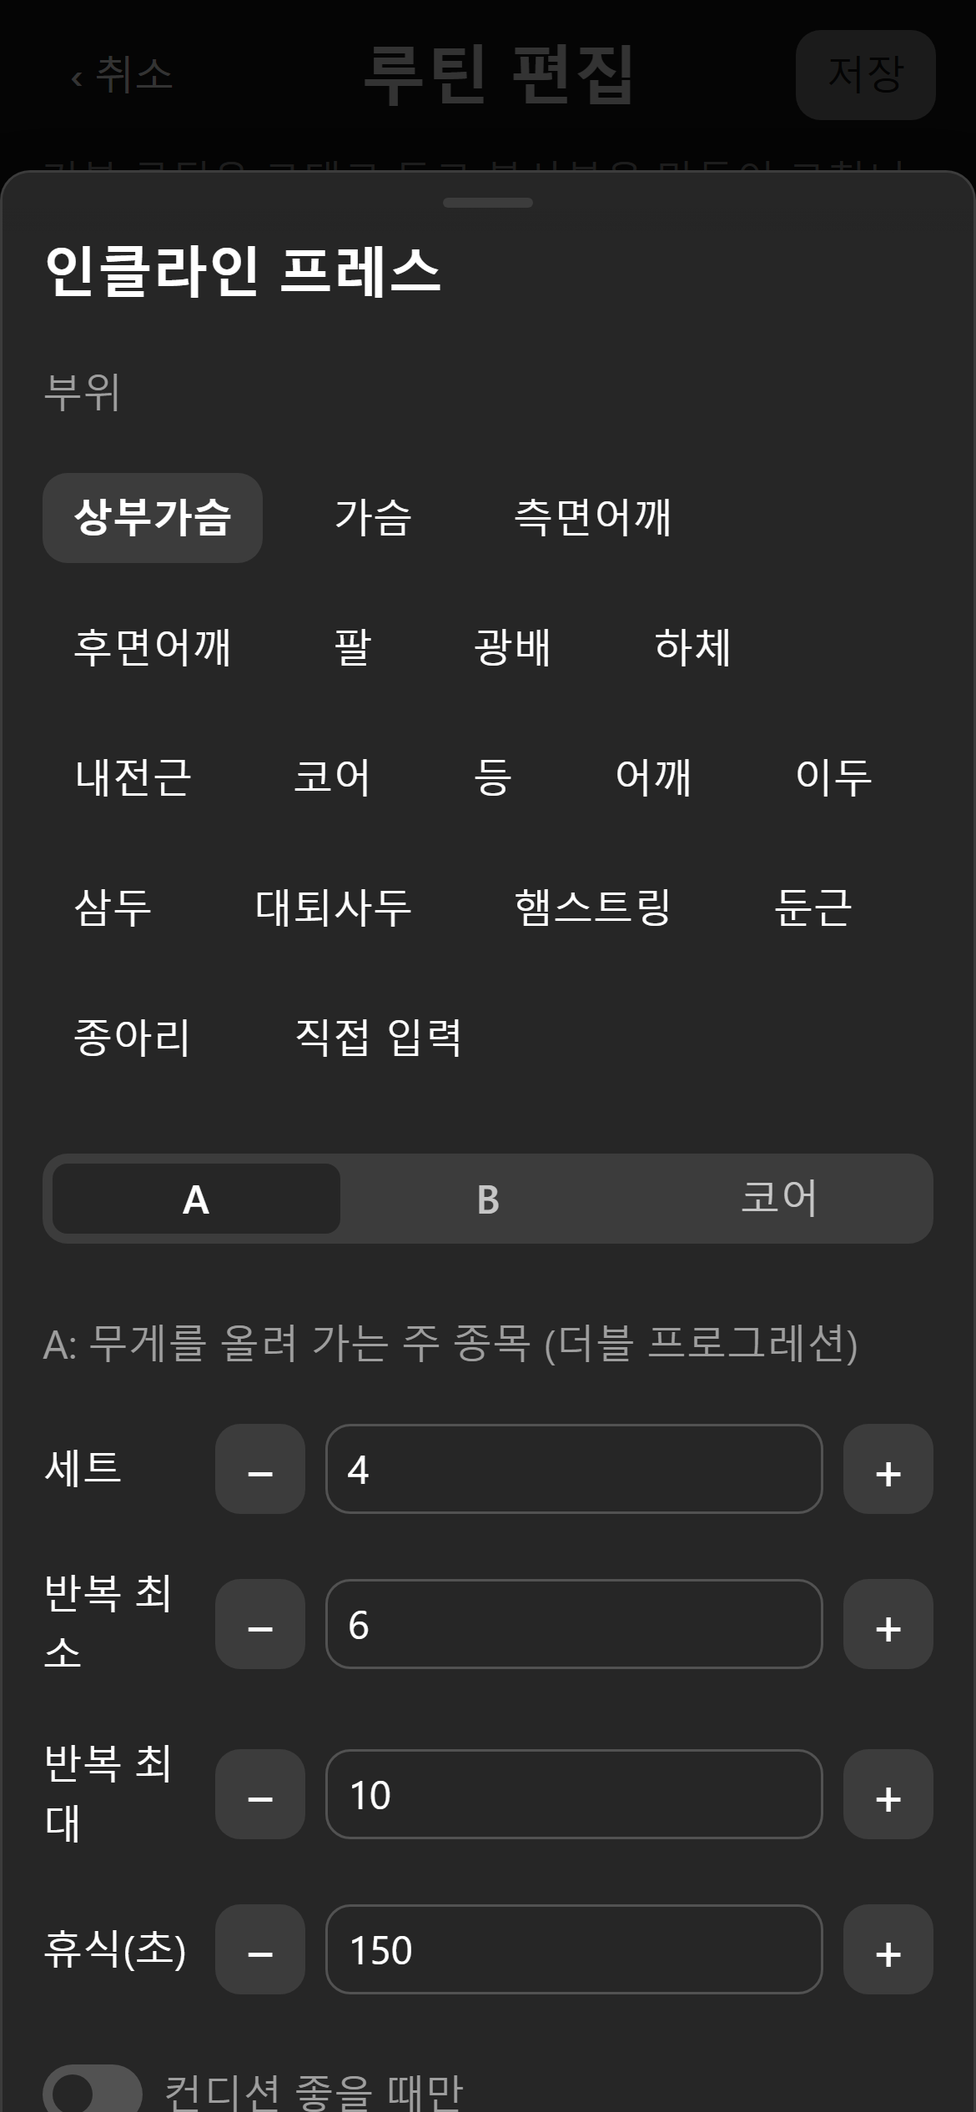
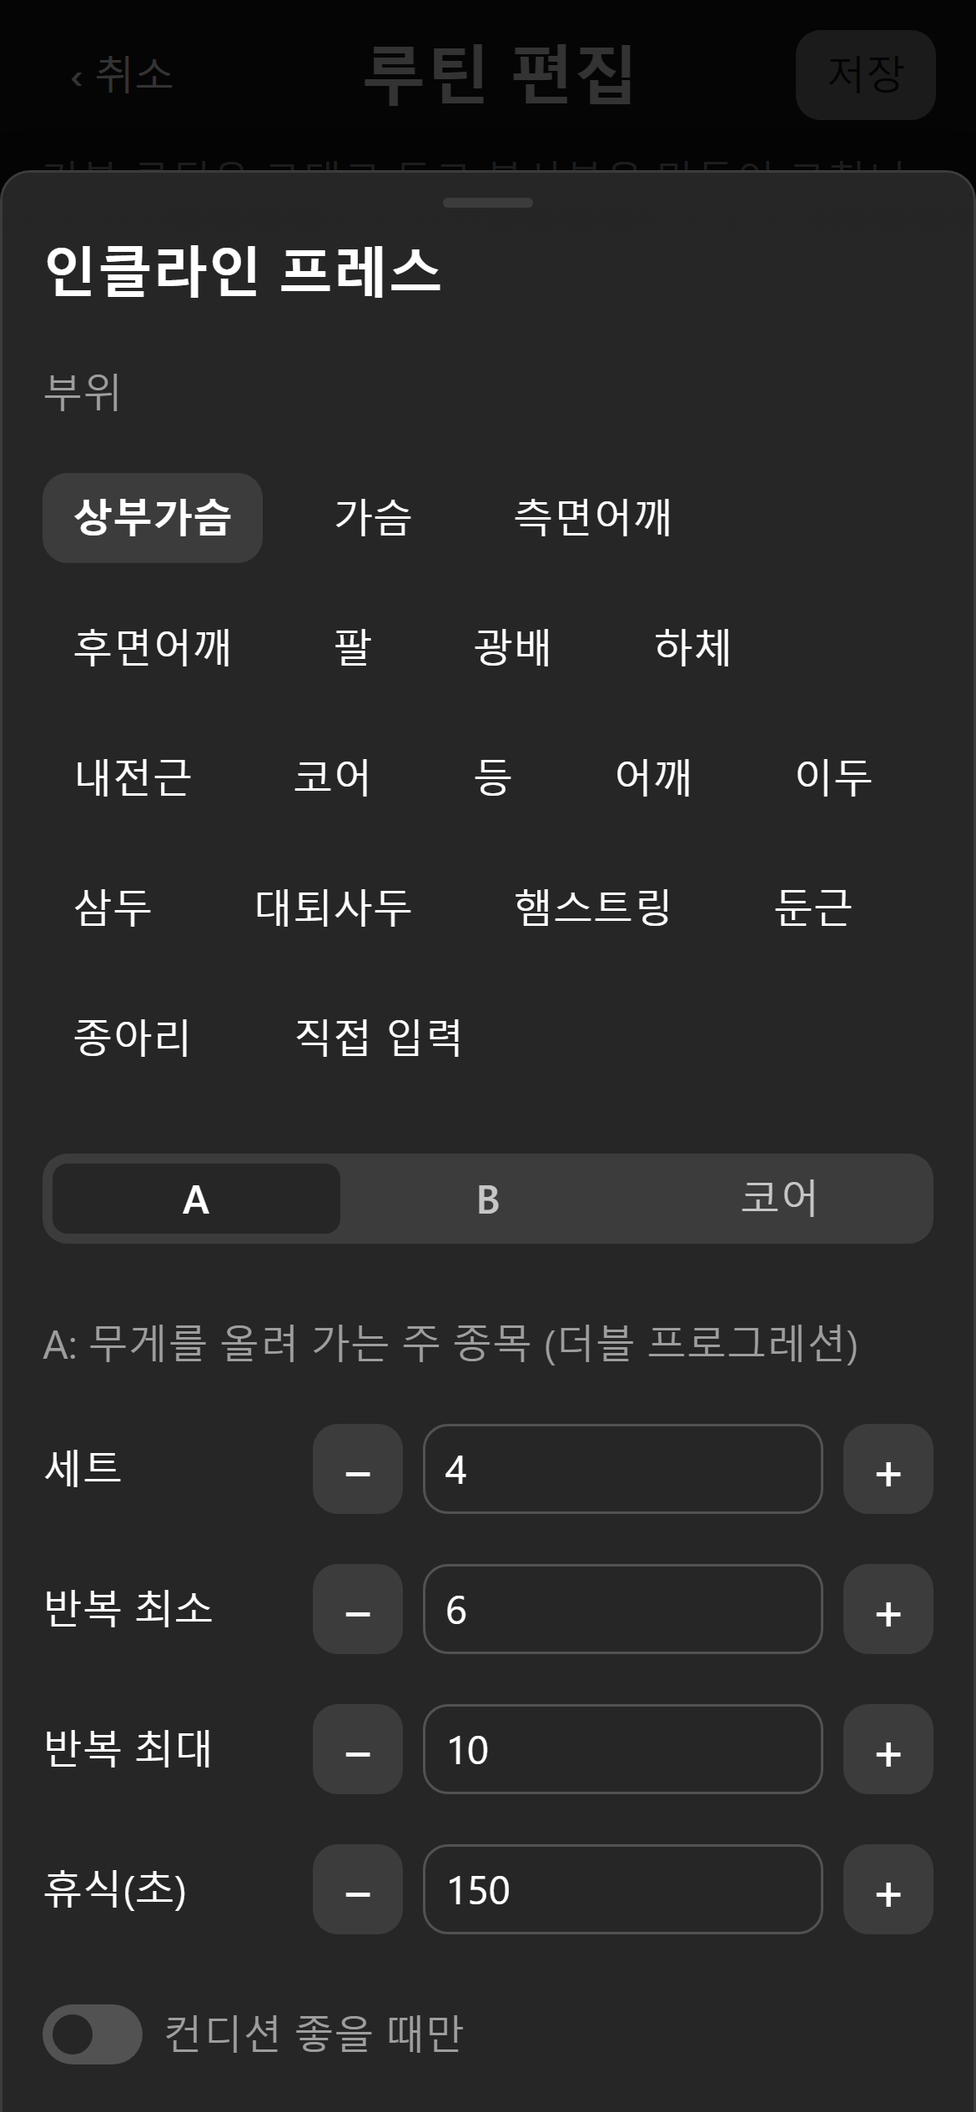
feat(OO3): 시트 탭 영역 기준 완화(사람 결정 C)·반복 최소/최대 꺾임 수정·기록·1.17.0
- 시트 장면 탭 영역: 36px 미만만 ✗, 44px 미달은 '주의'로 표에 찍고 실기기 확인으로 넘김
- 줄 시트 반복 최소/최대 이름이 글자 중간에서 꺾이던 것을 nowrap + 스테퍼 입력칸 폭으로 수정
- DEV-RECORD: 결함 복원 ⑩⑪⑭, 과거 판정 불변, 배포 영향, 사람 확인 필요, v1.16 제약 12·13 복원
- package.json 1.17.0

diff --git a/src/components/RoutineLineSheet.tsx b/src/components/RoutineLineSheet.tsx
@@ -77,19 +77,19 @@ export default function RoutineLineSheet({
 
         <HStack gap={2} align="center" justify="between">
           <Text>세트</Text>
-          <Stepper value={line.sets} step={1} min={1} max={10} label="세트" onChange={(v) => set({ sets: v })} />
+          <Stepper value={line.sets} step={1} min={1} max={10} label="세트" inputWidth={160} onChange={(v) => set({ sets: v })} />
         </HStack>
         <HStack gap={2} align="center" justify="between">
-          <Text>반복 최소</Text>
-          <Stepper value={line.repMin} step={1} min={1} max={50} label="반복 최소" onChange={(v) => set({ repMin: v })} />
+          <Text textWrap="nowrap">반복 최소</Text>
+          <Stepper value={line.repMin} step={1} min={1} max={50} label="반복 최소" inputWidth={160} onChange={(v) => set({ repMin: v })} />
         </HStack>
         <HStack gap={2} align="center" justify="between">
-          <Text>반복 최대</Text>
-          <Stepper value={line.repMax} step={1} min={1} max={50} label="반복 최대" onChange={(v) => set({ repMax: v })} />
+          <Text textWrap="nowrap">반복 최대</Text>
+          <Stepper value={line.repMax} step={1} min={1} max={50} label="반복 최대" inputWidth={160} onChange={(v) => set({ repMax: v })} />
         </HStack>
         <HStack gap={2} align="center" justify="between">
           <Text>휴식(초)</Text>
-          <Stepper value={line.restSec} step={15} min={0} max={600} label="휴식" onChange={(v) => set({ restSec: v })} />
+          <Stepper value={line.restSec} step={15} min={0} max={600} label="휴식" inputWidth={160} onChange={(v) => set({ restSec: v })} />
         </HStack>
 
         {/* Switch의 탭 영역은 이웃과의 간격 절반까지만 넓어진다(트랙이 24px라 21px 떨어진 점까지 닿으려면 위·아래 18px 이상) */}

diff --git a/src/ax/index.tsx b/src/ax/index.tsx
@@ -46,11 +46,13 @@ interface StepperProps {
   min: number
   max: number
   label: string
+  /** 입력칸 폭(px). 안 주면 Astryx 기본 폭. 줄 시트는 이름(`반복 최소`)이 한 줄로 들어가도록 줄인다 */
+  inputWidth?: number
   onChange: (v: number) => void
 }
 
 /** − 입력칸 ＋. `NumberInput`의 증감 버튼은 터치에서 숨어서 버튼을 따로 붙인다. */
-export function Stepper({ value, step, min, max, label, onChange }: StepperProps) {
+export function Stepper({ value, step, min, max, label, inputWidth, onChange }: StepperProps) {
   return (
     <HStack gap={2}>
       <Button
@@ -68,6 +70,7 @@ export function Stepper({ value, step, min, max, label, onChange }: StepperProps
         max={max}
         step={step}
         value={value}
+        width={inputWidth}
         onChange={onChange}
         {...NUMBER_AUTOFILL}
         controlStyle={CONTROL_STYLE}

diff --git a/docs/DEV-RECORD-v1.17.md b/docs/DEV-RECORD-v1.17.md
@@ -31,8 +31,13 @@
     작업 시작 전에 `git log`와 `grep returnChoiceReason`으로 먼저 확인했다.
 11. **새로 확인 (EE2 라운드):** 이 환경의 Bash 도구에서 `python - <<'EOF'` heredoc 본문이 길고
     작은따옴표·백슬래시가 섞이면 셸 파싱이 깨진다(`unexpected EOF while looking for matching`).
+12. **새로 확인 (NN1 라운드):** 11번이 또 났다 — 한 Bash 호출에 heredoc을 둘 이상 넣어도 깨진다. 파일은 Write 도구로 쓰고 Bash에는 짧은 명령만 둔다.
+13. **새로 확인 (NN1 라운드):** 테스트에서 `node:fs`를 import하면 `npm run build`(타입 확인)가 실패한다(vitest는 통과). 소스 스캔은 `import.meta.glob(..., { query: '?raw' })`로 읽는다.
 14. **새로 확인 (OO0 라운드):** 사람이 iOS 27(17.5 이상)을 확인했다 — Astryx 지원 조건 통과. Playwright 1.65.0 + chromium은 이 환경에서 받아졌고 `iPhone 14` 흉내(390×844, 터치, `pointer: coarse`)로 찍힌다(엔진은 chromium. webkit 아님). Playwright 기기 목록의 `iPhone 14` 뷰포트는 390×664라 844로 덮어썼다.
 15. **새로 확인 (OO0 라운드):** `page.evaluate`로 보내는 함수는 바깥 스코프의 도우미를 못 본다 → 공유 도우미는 `addInitScript`로 `window.__vis`·`__scrollEnd`에 올려 쓴다.
+
+16. **새로 확인 (OO3 라운드):** 스크린샷은 Playwright의 Chromium으로 찍는다. iOS Safari가 아니라서 `light-dark()`·`@scope`·`@starting-style`·safe-area·`<dialog>`·`dvh`·화면 키보드는 실기기 확인으로만 본다. `package-lock.json`에 `lucide-react`가 들어온다(theme-neutral의 의존성).
+17. **새로 확인 (OO3 라운드):** 이 환경에서 Python으로 파일을 읽고 쓰면 CRLF로 저장된다(`git`이 "CRLF will be replaced" 경고를 내고, `v117` 소스 스캔 정규식이 `\n}\n`에서 깨진다). 고치면 `sed -i 's/\r$//'`로 LF로 되돌리거나, 파일 편집은 Edit 도구로 한다. 시트 `--check`는 5분 안팎이라 Bash 포그라운드 한도(10분)에 둘을 이어 돌리면 넘친다 → 하나씩 백그라운드로 돌린다.
 
 ---
 
@@ -212,14 +217,14 @@ dev 서버(Playwright, `vite createServer`)의 `document.styleSheets`: `[{"name"
 
 ## OO3. 루틴 편집 화면을 Astryx로
 
-**결과: 미완(중단, 사람 필요) — `after --check`가 시트 탭 영역 때문에 종료 코드 1(위 사람 결정 A 절). 구현·테스트·빌드·스캔·흐름 검사 넷은 통과. 결함 복원 ⑩⑪⑭·배포 영향·1.17.0 상향·꺾임 확인은 안 했다.**
+**결과: 완료 — 사람 결정 C로 시트의 탭 영역 기준을 완화해 `after --check` 종료 코드 0(최종 코드로 한 번, 같은 코드에서 앞서 세 번 더 0). 결함 복원 ⑩⑪⑭ 확인, `반복 최소/최대` 꺾임은 고쳤고, `package.json` 1.17.0으로 올렸다. 시트의 44px 미달 목록은 "사람 확인 필요"로 넘겼다.**
 
 | 항목 | 내용 |
 |---|---|
-| 바뀐 파일 | `src/screens/RoutineEditorScreen.tsx`, `src/components/RoutineLineSheet.tsx`, `src/components/ExercisePickerSheet.tsx`, `src/App.tsx`(lazy+Suspense), `src/ax/index.tsx`(`Sheet`에 `SizeProvider`), `src/lib/v116.test.ts`(표의 두 줄), `src/lib/v117.test.ts`(describe `OO3`, 9개), `scripts/screenshots.mjs`(검사 보정), `README.md`(Limitations 한 줄), 이 문서, `docs/screenshots/v1.17/after-*` 22장 |
+| 바뀐 파일 | `src/screens/RoutineEditorScreen.tsx`, `src/components/RoutineLineSheet.tsx`, `src/components/ExercisePickerSheet.tsx`, `src/App.tsx`(lazy+Suspense), `src/ax/index.tsx`(`Sheet`에 `SizeProvider`, `Stepper`에 `inputWidth`), `src/lib/v116.test.ts`(표의 두 줄), `src/lib/v117.test.ts`(describe `OO3`, 9개), `scripts/screenshots.mjs`(검사 보정), `README.md`(Limitations 한 줄), 이 문서, `docs/screenshots/v1.17/after-*` 22장 |
 | 기존 테스트 | `v116.test.ts` 1064·1169줄만 `/btn-danger\|variant="destructive"/`로. 그 밖에는 안 고쳤다(NN4 `RoutineListPanel` 줄은 건드리지 않음) |
 | 실행 결과 | `npm test`: Test Files 61 passed (61), Tests 1558 passed (1558) · `npm run build` 통과 · `quality-scan --ci` 통과 |
-| 과거 판정 불변 | `git diff --stat -- src/lib src/db` → `v116.test.ts`(4줄)·`v117.test.ts`만. 골든 테스트 수정 없음 |
+| 과거 판정 불변 | 아래 "과거 판정 불변 확인" 절 |
 
 ### PLAN과 다르게 한 것
 
@@ -238,7 +243,15 @@ dev 서버(Playwright, `vite createServer`)의 `document.styleSheets`: `[{"name"
 |---|---|---|
 | `탭 영역`은 장면마다 가운데에서 21px 네 점의 `elementFromPoint` | **시트 장면(`line-sheet`·`line-sheet-end`·`picker-form`)만** 보이는 박스를 `--astryx-hit-inset-*`만큼 키운 상자(Astryx가 터치에서 넓혀 주는 누를 수 있는 영역)가 가로·세로 44px 이상인지 잰다. 값·위치가 400ms 가만해질 때까지 기다린 뒤 잰다. 편집 화면 본체의 기준(44px, 붙은 컨트롤 8px)은 그대로 | 사람 결정 A. 시트 안 측정이 실행마다 달라 판정이 흔들렸다 |
 
-결과(`scripts/screenshots.mjs` 보정 후 두 번 실행): 본체 장면 ✓. 시트 장면은 **여전히 실패, 단 1~4px 모자람**이고 `--check` 종료 코드 1이다. 실패 목록(390 다크, 2회째): `햄스트링`·`둔근` 칩 → 41.3px(위 4/아래 1.3) · `세트 감소` 40.7 · `세트 증가` 42.7 · `휴식 증가` 42.0 · 스위치(트랙 40×24) 40.3 / `picker-form` 스위치 39.7. 375 다크: 칩 `상부가슴`·`가슴`·`측면어깨` 40.3, `직접 입력` 40.7, 방식 `A`·`B`·`코어`(28px) 41.6, 스위치 41.2. 1회째에는 `A`·`B`·`코어` 42.9 등 다른 자리가 걸렸다. 위·아래 inset의 한쪽이 4·8px 대신 0.3~2.7px 같은 소수로 줄어 있고 실행마다 어느 컨트롤이 그런지 바뀐다(값이 가만해진 뒤에도). 간격을 넓혀도 같았다(앞 기록). 이 부분이 Astryx 측정 쪽 동작인지 시트 배치 탓인지는 확인하지 못했다.
+결정 A 직후의 결과(완화 전, 두 번 실행): 본체 장면 ✓. 시트 장면은 **여전히 실패, 단 1~4px 모자람**이고 `--check` 종료 코드 1이었다. 실패 목록(390 다크, 2회째): `햄스트링`·`둔근` 칩 → 41.3px(위 4/아래 1.3) · `세트 감소` 40.7 · `세트 증가` 42.7 · `휴식 증가` 42.0 · 스위치(트랙 40×24) 40.3 / `picker-form` 스위치 39.7. 375 다크: 칩 `상부가슴`·`가슴`·`측면어깨` 40.3, `직접 입력` 40.7, 방식 `A`·`B`·`코어`(28px) 41.6, 스위치 41.2. 1회째에는 `A`·`B`·`코어` 42.9 등 다른 자리가 걸렸다. 위·아래 inset의 한쪽이 4·8px 대신 0.3~2.7px 같은 소수로 줄어 있고 실행마다 어느 컨트롤이 그런지 바뀐다(값이 가만해진 뒤에도). 간격을 넓혀도 같았다(앞 기록). 이 부분이 Astryx 측정 쪽 동작인지 시트 배치 탓인지는 확인하지 못했다.
+
+### PLAN과 다르게 한 것 — 사람 결정 (C) (결정 A를 이어서 완화)
+
+| PLAN | 실제 | 이유 |
+|---|---|---|
+| `탭 영역` 모든 장면에서 44px, 예외 없음 | **시트 장면(`line-sheet`·`line-sheet-end`·`picker-form`)만:** 히트 영역(보이는 박스 + `--astryx-hit-inset-*`) 가로·세로 중 하나라도 **36px 미만이면 ✗**(눈에 보이는 박스 수준 = 진짜 깨짐), **36px 이상 44px 미만은 표에 `주의 n`으로 찍고 실패로 세지 않는다.** 측정값은 `주의 상세`에 그대로 찍는다. 종료 코드는 ✗만 센다. 편집 화면 본체(44px, 붙은 컨트롤 8px)는 그대로 엄격 | 사람 결정 C. 시트의 소수 inset이 실행마다 다른 컨트롤에서 1~4px 모자라 종료 코드가 흔들렸다. 실제 탭은 `pointerdown`에서 다시 재므로 손가락에는 영향이 작을 수 있어 실기기 확인(⑨)으로 넘긴다 |
+
+이 기준으로 같은 코드에서 `--check`를 돌린 결과: 종료 코드 0 · ✗ 0개. `주의`는 실행마다 개수와 자리가 달라도(1~9개/장면) 종료 코드는 안 흔들렸다. 구현: `scripts/screenshots.mjs`의 `inPageTapArea`(`bad` 35.5px 미만 / `warn` 43.5px 미만)·`printResults`. 흔들리는 걸 가려 두는 것이 아니라 36px 아래로 떨어지는 진짜 깨짐은 여전히 잡힌다는 근거는 아래 결함 복원 ⑪(스위치가 35.3px로 ✗)다.
 
 ### 스크립트 보정 (`scripts/screenshots.mjs`, OO0이 "처음 돌릴 때 고친다"고 한 부분)
 
@@ -257,14 +270,64 @@ dev 서버(Playwright, `vite createServer`)의 `document.styleSheets`: `[{"name"
 | 편집 → 뒤로 → 고르기 | ✓ | 목록 복귀 · 줄 시트 열림 |
 | 긴 검색어 | ✓ | 가로 넘침 없음 true · 안내 true · 지우면 목록 true |
 
-모양 검사: `가로 넘침`·`제목 한 줄`·`머리 줄`(375 포함)·`글자 잘림`·`입력 글자`·`마지막 줄`·`버튼 높이`는 **전 장면 ✓**. `editor-full`·`editor-leave`·`editor-problems`·`editor-long`의 `탭 영역`도 ✓(375 포함). **`탭 영역`이 시트 장면(`line-sheet`·`line-sheet-end`·`picker-form`, 390·375)에서 실행마다 다른 컨트롤 2~8개로 실패한다**:
-`"햄스트링" 88×36 아래 · "둔근" 56×36 아래 · "세트 감소" 36×36 위 · "세트 증가" 36×36 위 · "휴식 감소" 36×36 위 …` / `picker-form "" 40×24 아래`(스위치).
+모양 검사(최종 코드): `가로 넘침`·`제목 한 줄`·`머리 줄`(375 포함)·`글자 잘림`·`입력 글자`·`마지막 줄`·`버튼 높이`는 **전 장면 ✓**. `editor-full`·`editor-leave`·`editor-problems`·`editor-long`의 `탭 영역`도 ✓(375 포함). 시트 장면의 `탭 영역`: ✗ 0개, `주의`만(아래 "사람 확인 필요"). 종료 코드 0.
 
-### 남은 것 (사람 필요)
+### 줄 시트 라이트 — `반복 최소`·`반복 최대` 꺾임
 
-- **시트 안 탭 영역이 `--check`에서 불안정하다.** 같은 화면에서 실행마다 실패하는 컨트롤이 바뀐다. 단독 탐침(한 컨트롤만 스크롤해서 700ms 뒤 측정)에서는 `--astryx-hit-inset-*`가 4/4(칩)·8/8(세그먼트)로 정상이고, 전체를 순서대로 훑을 때만 값이 1~3px 모자란 컨트롤이 나온다. 간격을 12→16→20px로 넓혀도 같은 현상이라 간격 문제가 아니다(PLAN이 말한 "넓힐 수 없는 자리"). 원인 후보: `hitArea.ts`가 프레임당 4ms로 나눠 재고 시트 안에서 스크롤·`resize` 뒤 값이 이웃 측정 순서에 따라 달라짐. 실제 탭은 `pointerdown`에서 다시 재므로(`checkAtPress`) 손가락에는 영향이 작을 수 있으나 **실기기로 확인하지 않았다**. 결정이 필요하다: 시트 탭 영역 판정을 "단독 측정 + 대기"로 바꿀지, 시트의 `Stepper`·칩 배치를 바꿀지.
-- 줄 시트 라이트 스크린샷에서 `반복 최소`·`반복 최대` 이름이 두 줄로 꺾인다(잘리지는 않음, `글자 잘림` ✓). 스테퍼 폭이 이름 자리를 먹는다. 이번에 안 고쳤다.
-- 결함 복원 ⑩⑪⑭와 `package.json` 1.17.0 상향, "배포 영향" 절은 안 했다. ⑦은 `v116` 스캔이 못 잡는다(앞 버튼의 `destructive`가 260자 창에 걸림 — `v117` OO3 테스트는 같은 `<Button` 태그 안만 보게 고쳐 잡는다).
+전: 이름이 `반복 최` / `소`로 글자 중간에서 두 줄로 꺾였다(깨짐으로 보고 고침). 스테퍼의 입력칸이 199px로 이름 자리를 먹었다. 고침: 이름 `<Text textWrap="nowrap">`, 줄 시트의 네 스테퍼에 `inputWidth={160}`(`ax`의 `Stepper`에 선택 prop, `NumberInput`의 `width`). 후: 네 줄 모두 이름이 한 줄이고 `−`·입력칸·`+`가 같은 세로선에 선다(`after-line-sheet-end-light.png`로 확인). 처음에 `nowrap`만 넣었더니 입력칸이 안 줄어 두 줄의 `+`가 7px 튀어나와, 폭을 줄이는 것까지 같이 했다. 주간 목표 `Stepper`(편집 화면 본체)는 `inputWidth`를 안 줘서 그대로다.
+
+### 사람 확인 필요 (실기기)
+
+시트의 탭 영역 `주의` 목록(`--check` 마지막 실행, 390 다크 `line-sheet`; 라이트·375·`line-sheet-end`는 같은 컨트롤이 소수 오차만 다르게 나온다). 측정값 = 보이는 박스 + `--astryx-hit-inset-*`, 44px 미만만 적었다. 모두 36px 이상이라 ✗가 아니다.
+
+| 컨트롤 | 보이는 박스 | 히트 영역 |
+|---|---|---|
+| 부위 칩 `상부가슴`·`측면어깨` / `가슴` | 88×36 / 56×36 | 43.3 · 40.7(`햄스트링`·`둔근`) |
+| 방식 `A`·`B`·`코어` | 115×28 | 114.7×42.8 |
+| `세트 감소`·`세트 증가` | 36×36 | 44×40.7 · 44×42.7 |
+| `반복 최소 감소`·`증가` | 36×36 | 44×41.2 · 44×43.2 |
+| 스위치(`컨디션 좋을 때만`) | 40×24(트랙) | 44×38.2 (`picker-form`의 스위치 44×39.7) |
+| 375: 칩 `이두`·`삼두`·`대퇴사두` · `반복 최대 증가` · `이 Day에서 빼기`·`닫기` | 36 높이 | 높이 40.5~43.5 · 41.2 · 42.8 |
+
+어느 컨트롤이 모자라는지, 몇 px 모자라는지는 실행마다 바뀐다(위·아래 inset 한쪽이 4·8px 대신 소수로 줄어 있다. 원인이 Astryx의 4ms 분할 측정인지 시트 배치인지는 확인하지 못했다). 실제 탭은 `pointerdown`에서 다시 재서(`checkAtPress`) 손가락에는 영향이 작을 수 있다. **실기기 확인 ⑨**를 시트까지 넓힌다: 줄 시트의 `−`·`+`, 부위 칩, `A`·`B`·`코어`, 스위치가 엄지로 잘 눌리고 옆 컨트롤이 대신 눌리지 않는다(편집 화면의 ▲▼·`−`·`+`와 함께). 안 눌리는 자리가 있으면 그 컨트롤 간격을 키운다.
+
+그 밖의 실기기 확인은 PLAN ①~⑧ 그대로다(이번에 하나도 못 했다).
+
+### 결함 복원 (PLAN ⑩⑪⑭, `cp` 백업 → 결함 → `after --check` → 원복 → `cmp`)
+
+| # | 되살린 결함 | 결과 | 원상복구 |
+|---|---|---|---|
+| ⑩ | `src/styles/index.css`의 `@layer reset, legacy, astryx-base, astryx-theme;`에서 `legacy`를 맨 뒤로 | **`--check` 종료 코드 0 — 모양 검사가 못 잡는다**(`버튼 높이`·`머리 줄` 등 전 장면 ✓). 빌드 CSS의 처음 `@layer`는 `@layer reset,astryx-base,astryx-theme,legacy;`로 바뀌어 OO2의 "처음 나오는 `@layer`" 빌드 확인(기대 `reset,legacy,astryx-base,astryx-theme`)이 실패한다. 자동 테스트(`v117`)도 이 줄은 안 잡는다(`npx vitest run src/lib/v117.test.ts` 통과). **스크린샷·빌드 출력 확인으로만 보인다.** Astryx 버튼의 배경·테두리가 사라지는지는 스크린샷을 따로 안 봤다 | `cmp` 같음, `git status` 깨끗 |
+| ⑪ | `src/ax/ax.css`에서 `[data-astryx-theme] button { min-height: 0 }` 블록 삭제 | `--check` 종료 코드 1. `버튼 높이`가 전 장면 ✗(`editor-full`: 89개 중 89개, `"‹ 취소" 높이 44.0` · `"Day 위로" 44.0×44.0`). 덤으로 시트 `탭 영역`도 ✗ 1개(스위치 44×35.3 — 36px 미만이라 결정 C 아래서도 잡힌다) | `cmp` 같음 |
+| ⑭ | `RoutineEditorScreen.tsx` 종목 줄 `HStack gap={2}`를 `gap={0}`으로(▲▼ 사이·이름과 ▲ 사이 간격 0) | `--check` 종료 코드 1. `editor-full`·`editor-leave`·`editor-problems`·`editor-long`의 `탭 영역` ✗(`editor-full`: 124개 중 44개, `"종목 아래로" 36×36 왼쪽 · "종목 위로" 36×36 오른쪽`) | `cmp` 같음 |
+
+⑦은 앞에서 적은 대로 `v116` 스캔이 못 잡고 `v117` OO3 테스트가 잡는다.
+
+### 과거 판정 불변 확인
+
+`git diff --stat main..HEAD -- src/lib src/db`(이 기록 커밋 전, 출력 그대로):
+
+```
+ src/lib/inputProps.ts |  11 +++
+ src/lib/v116.test.ts  |   4 +-
+ src/lib/v117.test.ts  | 230 ++++++++++++++++++++++++++++++++++++++++++++++++++
+ 3 files changed, 243 insertions(+), 2 deletions(-)
+```
+
+`inputProps.ts`·`v116.test.ts`·`v117.test.ts`만이다. 골든 테스트는 수정 없이 통과(`Tests 1558 passed`). 바뀌는 것은 PLAN의 "과거 판정 불변" 표 그대로다. 이 기록 커밋은 `src/lib`을 더 안 건드린다.
+
+### 배포 영향
+
+- 루틴 편집 화면과 그 시트 둘이 Astryx 부품으로 바뀐다. 이 화면만 폰의 라이트/다크 설정을 따른다. 나머지 화면은 그대로다.
+- React가 19로 올라간다. 기록·판정·내보내기·백업 형식은 그대로다.
+- 아이폰 iOS 17.5 이상이 필요하다(루틴 편집 화면).
+- 폰에서 볼 것: 설정 → 활성 루틴 `편집`. 제목·Day 이름·종목 이름이 잘리지 않는지, 한글 입력이 되는지, 키보드가 올라와도 시트 아래 버튼에 닿는지. 시트의 `−`·`+`·칩·스위치가 엄지로 잘 눌리는지.
+
+### 마무리
+
+- `npm test`: Test Files 61 passed (61), Tests 1558 passed (1558) · `npm run build` 통과 · `node scripts/quality-scan.mjs --ci` 통과
+- `package.json`·`package-lock.json` `1.17.0`. `git rev-list --count main..HEAD`: 6(이 기록 커밋 전)
+- ⑦: `v116` 스캔이 못 잡는다(앞 버튼의 `destructive`가 260자 창에 걸림 — `v117` OO3 테스트는 같은 `<Button` 태그 안만 보게 고쳐 잡는다).
 
 ### 빌드 출력
 
